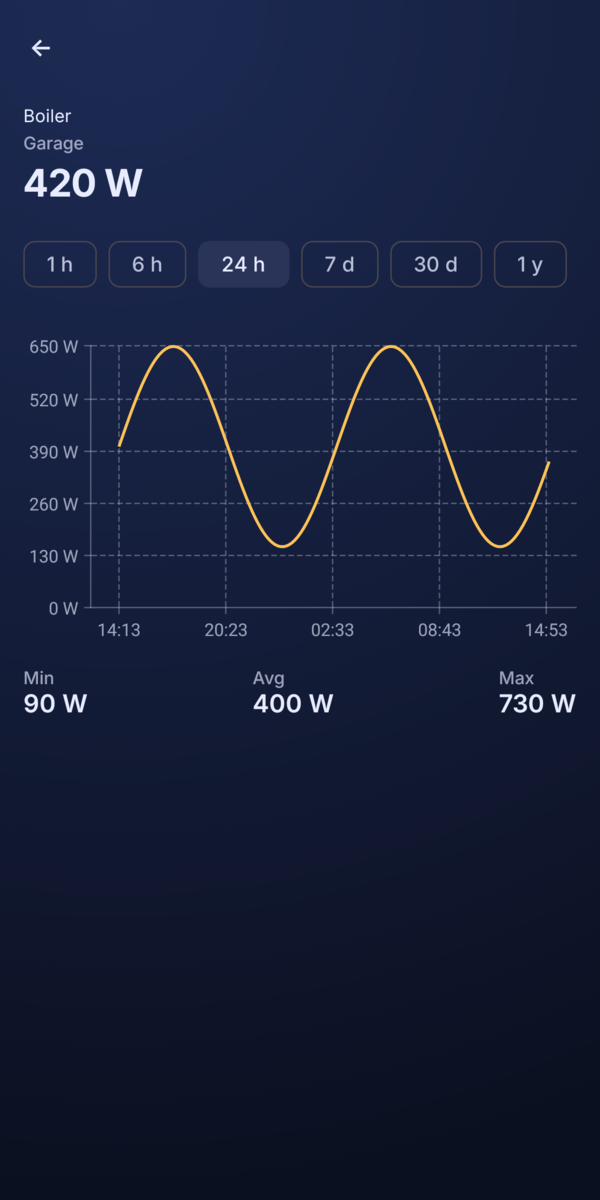
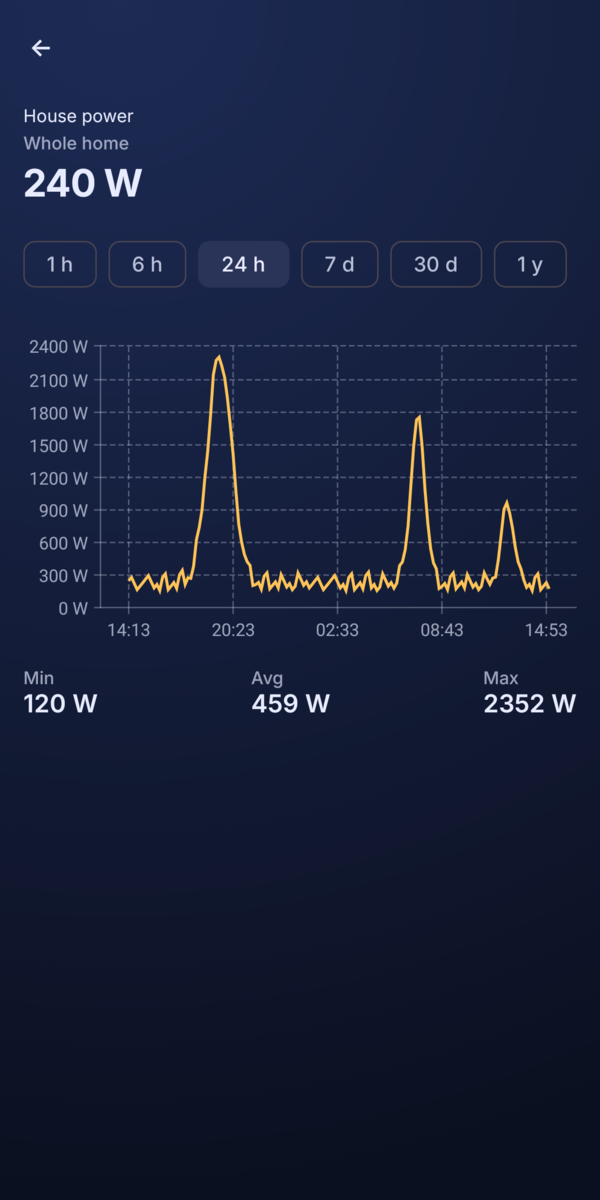
test(history): a believable day of house power in the History screenshot
The line fixture was a pure sine wave labelled as a boiler. It is now a house's power over a day: a low base with a fridge cycling, and breakfast, lunch and evening peaks. Min, average and max are computed from the series. The README screenshot is re-rendered from it.

diff --git a/feature/history/src/test/kotlin/com/gekkotron/nidoo/feature/history/ui/HistoryScreenshotTest.kt b/feature/history/src/test/kotlin/com/gekkotron/nidoo/feature/history/ui/HistoryScreenshotTest.kt
@@ -24,7 +24,8 @@ import org.robolectric.annotation.Config
 import org.robolectric.annotation.GraphicsMode
 import java.time.ZoneOffset
 import java.util.Locale
-import kotlin.math.sin
+import kotlin.math.exp
+import kotlin.math.pow
 import kotlin.test.assertTrue
 
 @RunWith(AndroidJUnit4::class)
@@ -36,13 +37,25 @@ class HistoryScreenshotTest {
 
     private val start = 1_790_000_000L
 
-    private fun line() = ChartContent.Line(
-        Series(600, (0 until 150).map {
-            val mean = 400.0 + 250.0 * sin(it / 12.0)
-            HistoryPoint(start + it * 600L, mean, mean - 60, mean + 80)
-        }),
-        min = 90.0, avg = 400.0, max = 730.0,
-    )
+    /** A house's power over a day: a fridge cycling on a low base, then breakfast, lunch and evening peaks. */
+    private fun housePower(i: Int): Double {
+        val hour = ((start + i * 600L) % 86_400L) / 3600.0
+        fun peak(at: Double, watts: Double, width: Double) = watts * exp(-((hour - at) / width).pow(2))
+        val fridge = if (i % 6 < 2) 90.0 else 0.0
+        val jitter = ((i * 37) % 11 - 5) * 8.0
+        return 190.0 + fridge + jitter + peak(7.3, 1500.0, 0.6) + peak(12.6, 750.0, 0.5) + peak(19.6, 2100.0, 1.0)
+    }
+
+    private fun line(): ChartContent.Line {
+        val points = (0 until 150).map {
+            val mean = housePower(it)
+            HistoryPoint(start + it * 600L, mean, mean - 30, mean + 50)
+        }
+        return ChartContent.Line(
+            Series(600, points),
+            min = points.minOf { it.min }, avg = points.map { it.mean }.average(), max = points.maxOf { it.max },
+        )
+    }
 
     private fun bars() = ChartContent.Bars(
         DailyTotals((0 until 7).map { DayTotal(start + it * 86_400L, 6.0 + (it * 7 % 5)) }),
@@ -65,7 +78,7 @@ class HistoryScreenshotTest {
 
     @Test
     fun `a line in Night Glass`() {
-        val state = HistoryUi(title = "Boiler", room = "Garage", live = 420.0, unit = "W", energy = true, toggle = true, content = line())
+        val state = HistoryUi(title = "House power", room = "Whole home", live = 240.0, unit = "W", energy = true, toggle = true, content = line())
         val bitmap = render(ThemeChoice.NIGHT_GLASS, "history-line-night", state)
         assertTrue(bitmap.distinctColors() > 8)
         assertTrue(bitmap.luminanceAt(4, 4) < 0.35f)
@@ -73,7 +86,7 @@ class HistoryScreenshotTest {
 
     @Test
     fun `a line in Ivoire`() {
-        val state = HistoryUi(title = "Boiler", room = "Garage", live = 420.0, unit = "W", range = HistoryRange.D7, content = line())
+        val state = HistoryUi(title = "House power", room = "Whole home", live = 240.0, unit = "W", range = HistoryRange.D7, content = line())
         val bitmap = render(ThemeChoice.IVOIRE, "history-line-warm", state)
         assertTrue(bitmap.distinctColors() > 8)
         assertTrue(bitmap.luminanceAt(4, 4) > 0.6f)

diff --git a/README.md b/README.md
@@ -15,7 +15,7 @@ Nidoo talks **MQTT** directly. It connects to your local broker at home and goes
 <p align="center">
   <img src="docs/images/screen-rooms.png" width="24%" alt="Home in Night Glass: one card per room with its temperature, lights and shutters, and one-tap buttons for the whole room">
   <img src="docs/images/screen-room.png" width="24%" alt="The living room in Ivoire: a sensor strip, then lights, shutters, climate, plugs and media">
-  <img src="docs/images/screen-history.png" width="24%" alt="History of a boiler's power over 24 hours, with min, average and max">
+  <img src="docs/images/screen-history.png" width="24%" alt="History of the house's power over 24 hours, with min, average and max">
   <img src="docs/images/screen-alerts.png" width="24%" alt="Alerts grouped by day: door, camera, alarm, energy and gateway events">
 </p>
 
